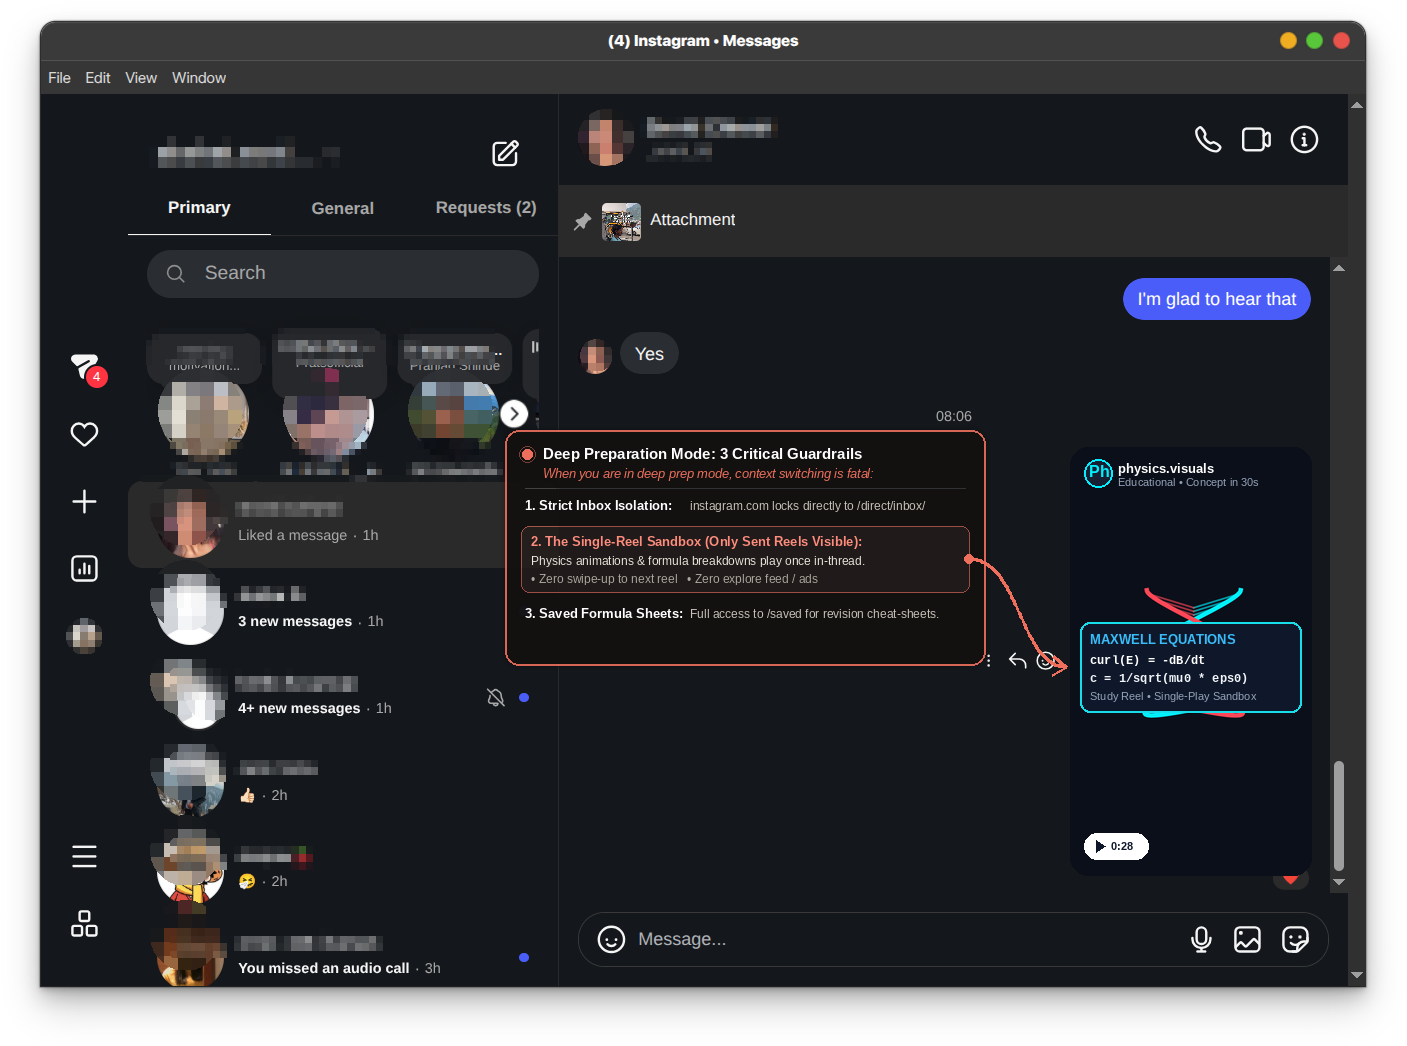
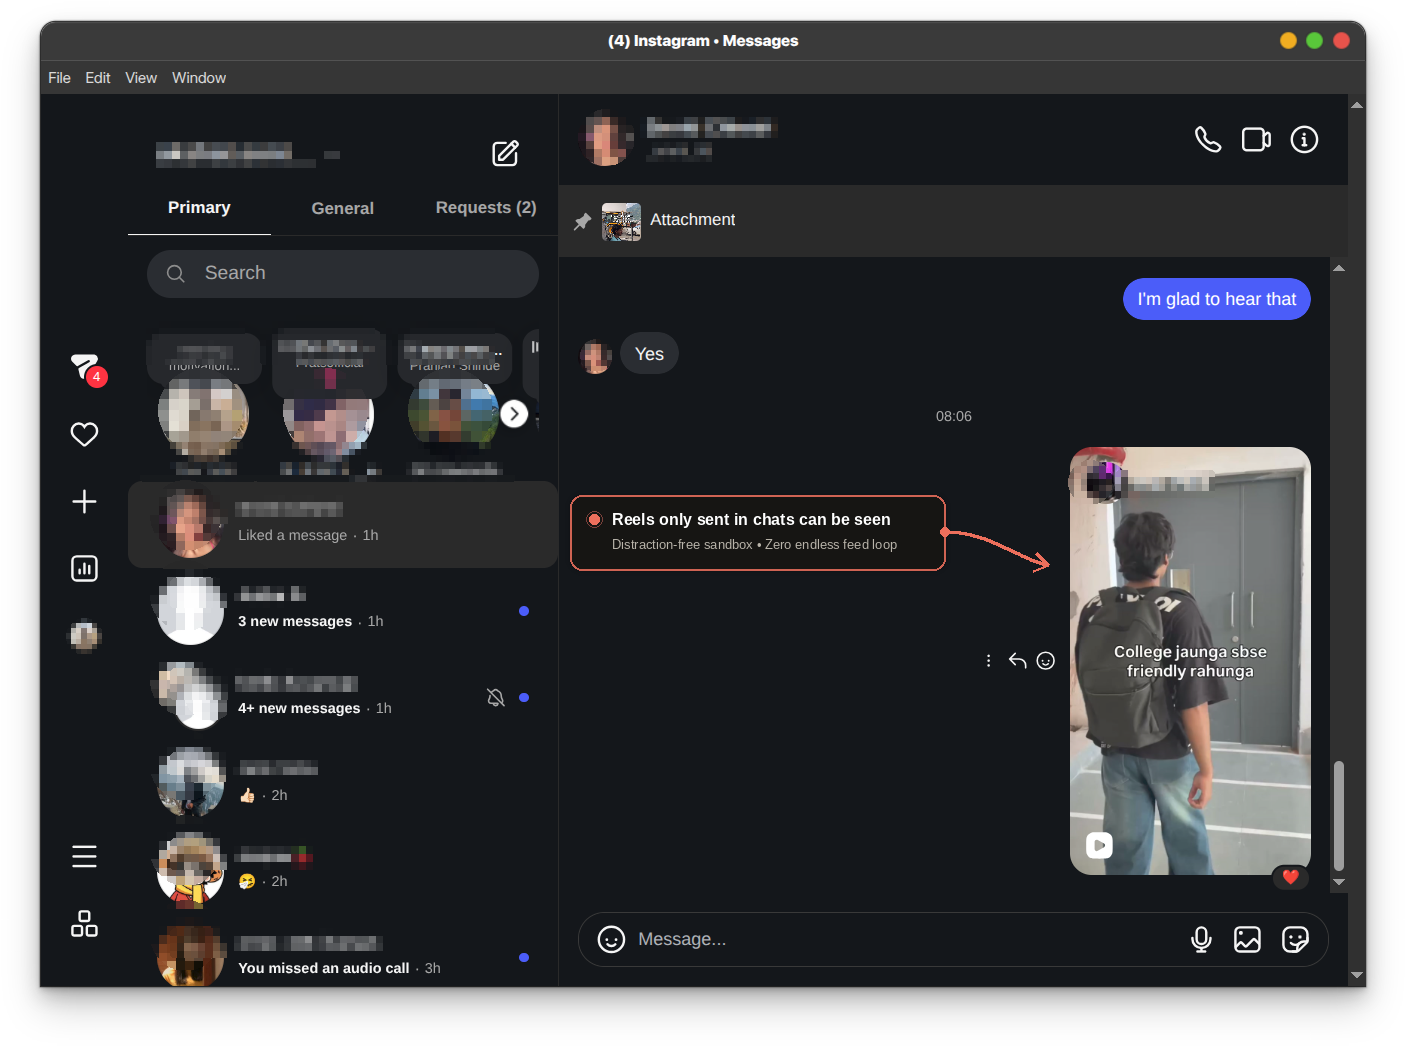
feat: revert hero screenshot to original and add in-chat sandbox demonstration image

diff --git a/README.md b/README.md
@@ -23,6 +23,11 @@ A minimal, distraction-free Instagram client engineered exclusively for **Direct
 | **Stories** | Global top tray tempting you to click | **Filtered**: visible **only** for chat partner or profile search |
 | **Data Privacy** | 3rd-party clients often steal cookies/tokens | **100% Zero-Data-Collection**: runs locally on device, 0 telemetry, authenticates strictly with official Meta SSL servers |
 
+<div align="center">
+  <img src="assets/zengram-chat-sandbox.png" alt="In-Chat Single-Reel Sandbox" width="340" style="border-radius:12px;" />
+  <p><em>▲ <strong>In-Chat Single-Reel Sandbox:</strong> Only sent videos play inside thread. Playback halts immediately when finished ("Stops here / No endless scroll").</em></p>
+</div>
+
 ---
 
 ## 📱 How to Use on Phone (Android & iOS)

diff --git a/ARTICLE.md b/ARTICLE.md
@@ -49,6 +49,11 @@ flowchart LR
 - **Saved Section Fully Accessible:** Your bookmarked revision diagrams, physics notes, and formula sheets (`/username/saved/` and `/p/shortcode/`) open cleanly without feed distractions.
 - **Hardware-Accelerated Calling:** WebRTC calling buttons injected directly into chat headers let you hop on voice and video study sessions with peers.
 
+<div align="center">
+  <img src="assets/zengram-chat-sandbox.png" alt="ZenGram In-Chat Video Sandbox" width="360" style="border-radius:14px;" />
+  <p><em>▲ <strong>In-Chat Single-Reel Sandbox:</strong> Only sent videos play inside direct chat threads. Playback halts immediately when finished ("Stops here / No endless scroll").</em></p>
+</div>
+
 ---
 
 ### 2. 🎨 For Content Creators: The "Post & Ghost" Workflow
